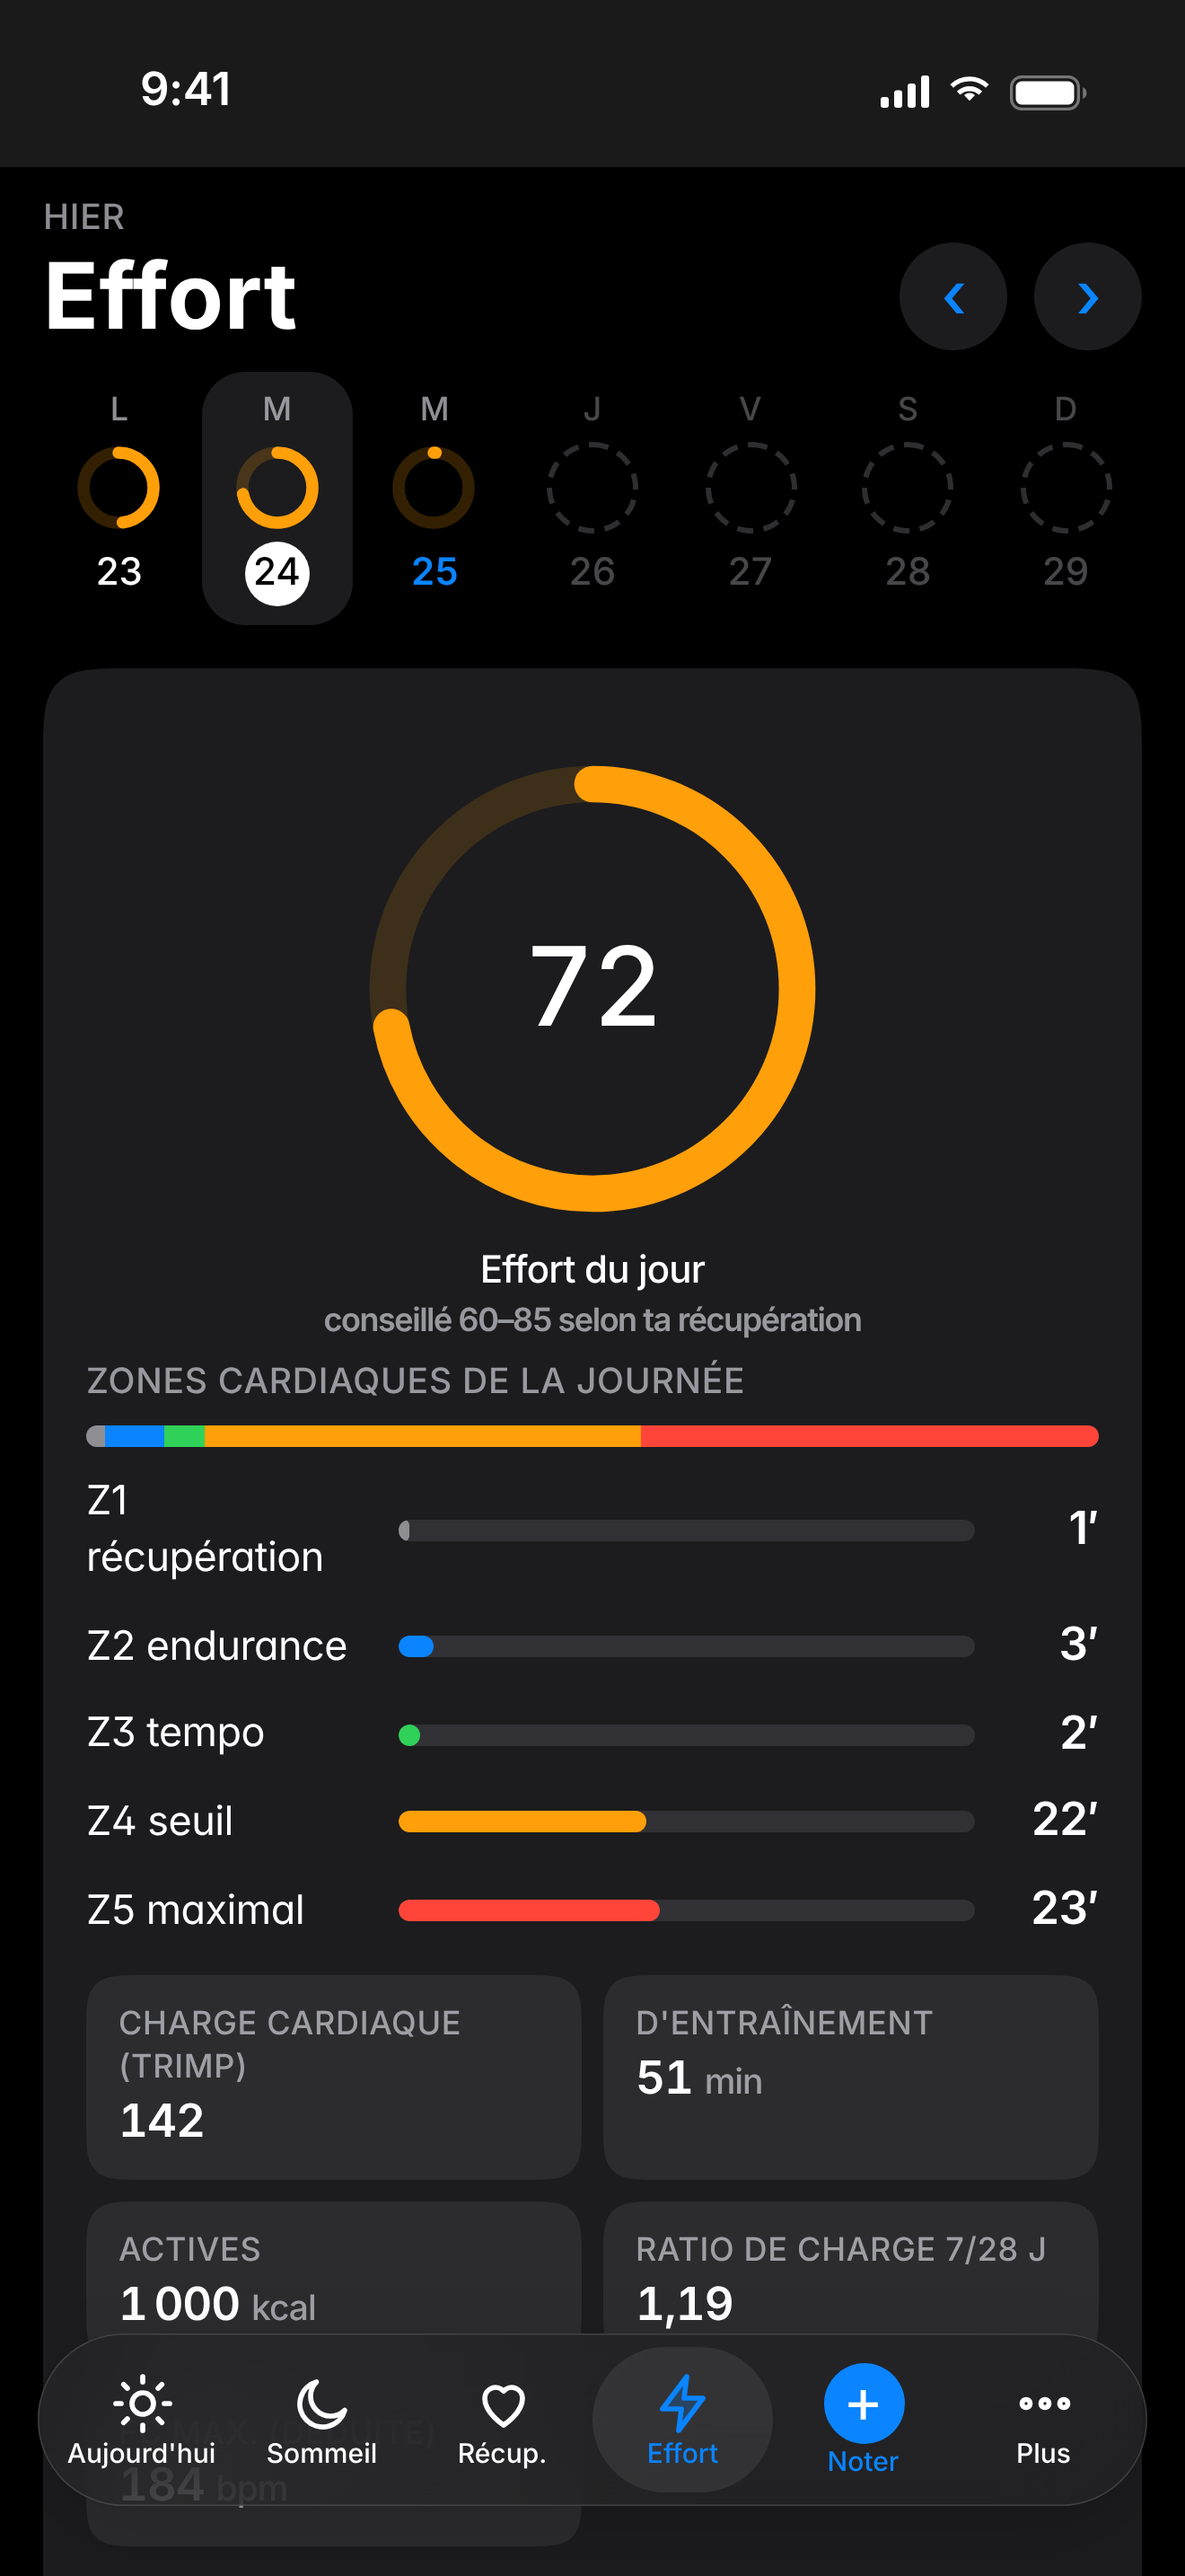
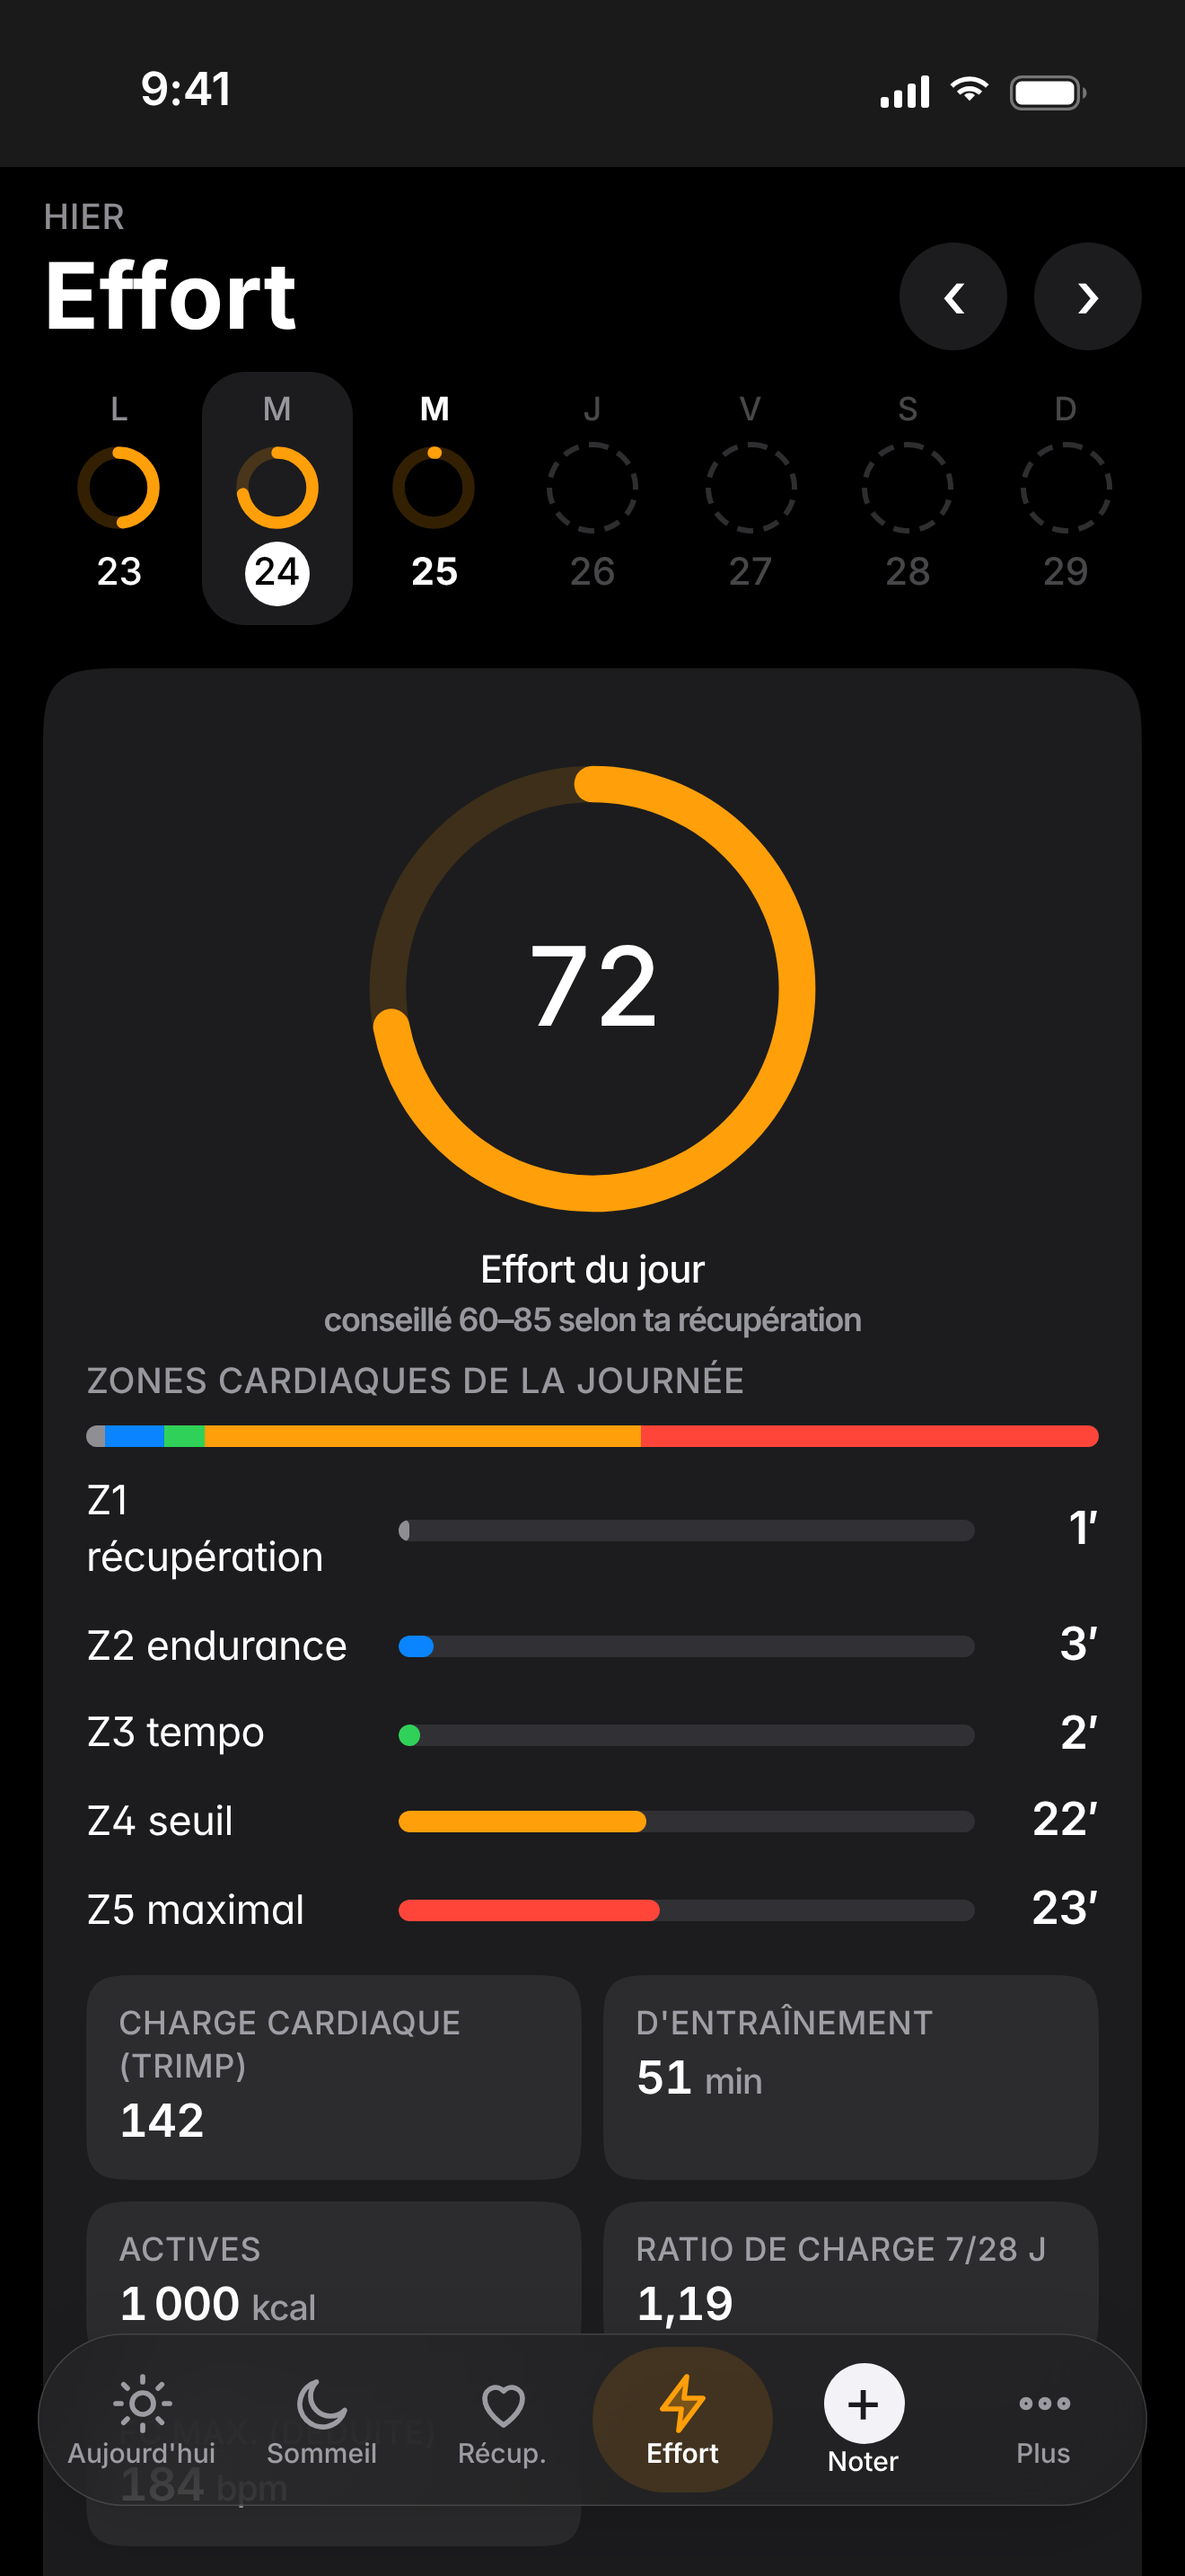
Identité propre : plus de boutons en bleu système
- actions principales en capsules graphite (noires en clair, blanches en sombre)
- actions secondaires en capsules grises, liens en graphite semi-gras
- feuilles : « Annuler » en capsule grise, « Ajouter / Terminer / OK » en capsule graphite
- onglets : icône aux couleurs de chaque section (reprises des anneaux du logo)
- feuille ouverte : minuteur de repos et notifications en bas, pour ne plus couvrir ses boutons
- consigne de design ajoutée à CLAUDE.md ; captures App Store régénérées

Claude-Session: https://claude.ai/code/session_015H5AcnZF4Qe2vCaE56TQbC

diff --git a/src/styles.css b/src/styles.css
@@ -22,7 +22,9 @@
  --glass:light-dark(rgba(255,255,255,.72),rgba(36,36,38,.72));
  --glass-edge:light-dark(rgba(255,255,255,.9),rgba(255,255,255,.14));
  --thumb:light-dark(#fff,#636366);
- --tint:light-dark(#007aff,#0a84ff);
+ /* identité du Carnet : actions en graphite (noir en clair, blanc en sombre), pas le bleu système */
+ --tint:light-dark(#1c1c1e,#f2f2f7);
+ --on-tint:light-dark(#fff,#1c1c1e);
  /* couleurs système d'Apple, une par thème de l'appli */
  --eff:light-dark(#ff9500,#ff9f0a);   /* effort : orange */
  --rec:light-dark(#34c759,#30d158);   /* récupération : vert */
@@ -87,8 +89,8 @@ h3{font:600 17px/1.3 var(--font);margin:18px 0 8px;letter-spacing:-.02em}
 .tabs{display:flex;gap:4px;overflow-x:auto;scrollbar-width:none;padding:10px 0}
 .tabs a{flex:none;display:flex;align-items:center;gap:7px;color:var(--ink);text-decoration:none;padding:8px 14px;min-height:40px;font-weight:500;font-size:15px;border-radius:99px}
 .tabs a svg{width:20px;height:20px;fill:none;stroke:var(--tint);stroke-width:2;stroke-linecap:round;stroke-linejoin:round}
-.tabs a[aria-current=page]{background:var(--tint);color:#fff}.tabs a[aria-current=page] svg{stroke:#fff}
-.tplus{flex:none;display:flex;align-items:center;gap:6px;border:0;border-radius:99px;background:var(--tint);color:#fff;font:600 15px var(--font);padding:8px 16px;min-height:40px;cursor:pointer;margin-left:auto}
+.tabs a[aria-current=page]{background:var(--tint);color:var(--on-tint)}.tabs a[aria-current=page] svg{stroke:#fff}
+.tplus{flex:none;display:flex;align-items:center;gap:6px;border:0;border-radius:99px;background:var(--tint);color:var(--on-tint);font:600 15px var(--font);padding:8px 16px;min-height:40px;cursor:pointer;margin-left:auto}
 .tplus .pi{font-size:21px;line-height:1;font-weight:400}
 .lb .ls{display:none}.dskonly{display:none}.tabs .tplus{order:99}
 
@@ -125,7 +127,7 @@ textarea{resize:vertical}#exp,#imp{font-size:13px;font-family:ui-monospace,'SF M
 /* ---------- boutons (capsules d'iOS 26) ---------- */
 .btn{font:600 16px var(--font);letter-spacing:-.02em;min-height:44px;padding:10px 20px;border-radius:99px;border:0;background:color-mix(in srgb,var(--tint) 13%,transparent);color:var(--tint);cursor:pointer;transition:transform .12s,opacity .12s}
 .btn:active{transform:scale(.97);opacity:.8}
-.btn.pri{background:var(--tint);color:#fff}
+.btn.pri{background:var(--tint);color:var(--on-tint)}
 .btn.ghost{background:none;color:var(--tint)}
 .btn.small{min-height:34px;padding:6px 14px;font-size:15px}
 .btn.icon{width:44px;padding:0;font-size:22px;line-height:1}
@@ -136,14 +138,14 @@ textarea{resize:vertical}#exp,#imp{font-size:13px;font-family:ui-monospace,'SF M
 .x{flex:none;width:32px;height:32px;border:0;border-radius:50%;background:var(--field);color:var(--mute);font-size:19px;line-height:1;cursor:pointer;display:grid;place-items:center;align-self:center;justify-self:end}
 @media(hover:hover){.x:hover{background:color-mix(in srgb,var(--bad) 15%,transparent);color:var(--bad)}.tabs a:not([aria-current=page]):hover{background:var(--field)}}
 label.filebtn{display:inline-flex;align-items:center;font-size:16px;cursor:pointer;position:relative;margin:4px 0 10px}
-label.filebtn.pri{color:#fff}label.btn.filebtn:not(.pri){color:var(--tint);margin:0}
+label.filebtn.pri{color:var(--on-tint)}label.btn.filebtn:not(.pri){color:var(--tint);margin:0}
 label.filebtn:focus-within{outline:3px solid color-mix(in srgb,var(--tint) 50%,transparent);outline-offset:2px}
 .lnk{color:var(--tint);font-weight:600;text-decoration:none}
 
 /* ---------- pastilles et contrôle segmenté ---------- */
 .chips{display:flex;flex-wrap:wrap;gap:8px}
 .chip{display:inline-flex;gap:6px;align-items:baseline;min-height:36px;padding:7px 14px;border-radius:99px;border:0;background:var(--field);color:var(--ink);font:500 15px var(--font);letter-spacing:-.02em;cursor:pointer;text-align:left}
-.chip span{color:var(--mute);font-size:13px}.chip.on{background:var(--tint);color:#fff}.chip.on span{color:inherit;opacity:.75}
+.chip span{color:var(--mute);font-size:13px}.chip.on{background:var(--tint);color:var(--on-tint)}.chip.on span{color:inherit;opacity:.75}
 .seg{display:inline-flex;background:var(--field);border-radius:99px;padding:2px;margin-bottom:14px;flex-wrap:wrap;gap:0}
 .seg button{border:0;background:none;font:500 14px var(--font);letter-spacing:-.01em;color:var(--ink);padding:6px 16px;border-radius:99px;min-height:32px;cursor:pointer;transition:background .2s}
 .seg button.on{background:var(--thumb);font-weight:500;box-shadow:0 3px 8px rgba(0,0,0,.12),0 3px 1px rgba(0,0,0,.04)}
@@ -189,7 +191,7 @@ label.filebtn:focus-within{outline:3px solid color-mix(in srgb,var(--tint) 50%,t
 
 /* ---------- barres ---------- */
 .bar{position:relative;height:8px;background:var(--field);border-radius:99px;overflow:hidden;margin:8px 0 6px}
-.bar i{display:block;position:relative;height:100%;background:var(--c,var(--tint));border-radius:99px;transition:width .5s}
+.bar i{display:block;position:relative;height:100%;background:var(--c,var(--trn));border-radius:99px;transition:width .5s}
 .bar .band{position:absolute;top:0;bottom:0;background:color-mix(in srgb,var(--ink) 9%,transparent)}
 .tg{position:absolute;top:-2px;bottom:-2px;width:2px;background:var(--ink);opacity:.45}
 .zb{display:flex;height:8px;border-radius:99px;overflow:hidden;background:var(--field);margin-top:6px}.zb i{display:block;height:100%}
@@ -327,7 +329,7 @@ td.num,th.num{text-align:right}
  #tabs{max-width:none;margin:0;padding:0}
  .tabs{flex-direction:column;align-items:stretch;gap:2px;overflow:visible;padding:0}
  .tabs a{width:100%;justify-content:flex-start;padding:9px 12px;border-radius:12px;font-size:16px;gap:12px;min-height:42px}
- .tabs a[aria-current=page]{background:var(--tint);color:#fff}
+ .tabs a[aria-current=page]{background:var(--tint);color:var(--on-tint)}
  .tabs .tplus{order:-1;width:100%;justify-content:center;margin:0 0 14px;padding:11px 14px;min-height:46px}
  .tabs .dsk{display:flex!important}
  .kbd{margin-top:auto;padding:12px 8px 0;border-top:.5px solid var(--line);font-size:12px;color:var(--mute);line-height:1.8}
@@ -393,7 +395,7 @@ td.num,th.num{text-align:right}
  .tabs a[aria-current=page],.tabs a.sub-on{background:color-mix(in srgb,var(--ink) 8%,transparent);color:var(--tint)}
  .tabs a[aria-current=page] svg,.tabs a.sub-on svg{stroke:currentColor;fill:color-mix(in srgb,currentColor 22%,transparent)}
  .tabs .tplus{color:var(--tint)}
- .tabs .tplus .pi{width:30px;height:30px;border-radius:50%;background:var(--tint);color:#fff;display:grid;place-items:center;font-size:23px;font-weight:400;line-height:1;flex:none}
+ .tabs .tplus .pi{width:30px;height:30px;border-radius:50%;background:var(--tint);color:var(--on-tint);display:grid;place-items:center;font-size:23px;font-weight:400;line-height:1;flex:none}
  .tabs .lb{display:block;max-width:100%;overflow:hidden;text-overflow:ellipsis;white-space:nowrap}
  .lb .lf{display:none}.lb .ls{display:inline}
  .tabs .dsk{display:none!important}
@@ -547,7 +549,7 @@ a{text-decoration:none}
 .favp .chip:first-child{border-top:0}
 .favp .chip b{font-weight:400;flex:1}
 .favp .chip span{font-size:15px}
-.favp .chip::after{content:'+';width:26px;height:26px;border-radius:50%;background:var(--tint);color:#fff;display:grid;place-items:center;font-size:20px;line-height:1;flex:none}
+.favp .chip::after{content:'+';width:26px;height:26px;border-radius:50%;background:var(--tint);color:var(--on-tint);display:grid;place-items:center;font-size:20px;line-height:1;flex:none}
 .favp p{margin:8px 0}
 /* onglet Effort : carte d'entrée */
 .sessnew h2{margin-bottom:4px}
@@ -556,14 +558,14 @@ a{text-decoration:none}
 .sessnew .hr b,.sessnow .hr b{font-weight:500}
 .sessnow{padding-top:6px;padding-bottom:6px}
 .sessnow .hr{grid-template-columns:30px minmax(0,1fr) auto}
-.sessnow em.go{font-size:15px;font-weight:600;color:#fff;background:var(--tint);border-radius:99px;padding:7px 14px;line-height:1.2}
+.sessnow em.go{font-size:15px;font-weight:600;color:var(--on-tint);background:var(--tint);border-radius:99px;padding:7px 14px;line-height:1.2}
 .sessnow .hr i{animation:pulse 2s ease-in-out infinite}
 @keyframes pulse{50%{opacity:.6}}
 /* nutrition : repas en listes groupées */
 .mealt{margin:22px 0 2px}
 .flist.meal li.addf{display:block;padding:0;min-height:0}
 .addf button{width:100%;text-align:left;background:none;border:0;color:var(--tint);font:400 17px var(--font);letter-spacing:-.02em;padding:12px 0;min-height:48px;cursor:pointer;display:flex;align-items:center;gap:10px}
-.addf button::before{content:'+';width:22px;height:22px;border-radius:50%;background:var(--tint);color:#fff;display:grid;place-items:center;font-size:18px;line-height:1}
+.addf button::before{content:'+';width:22px;height:22px;border-radius:50%;background:var(--tint);color:var(--on-tint);display:grid;place-items:center;font-size:18px;line-height:1}
 
 /* ---------- tuiles : icônes façon SF Symbols ---------- */
 #tiles .tile .k i{width:16px;height:16px;border-radius:0;-webkit-mask:var(--ico) center/contain no-repeat;mask:var(--ico) center/contain no-repeat}
@@ -584,7 +586,7 @@ a{text-decoration:none}
 .wd.tod b{color:var(--tint);font-weight:600}
 .wd.on{background:var(--panel)}
 .wd.on b{background:var(--ink);color:var(--bg)}
-.wd.on.tod b{background:var(--tint);color:#fff}
+.wd.on.tod b{background:var(--tint);color:var(--on-tint)}
 .wd:disabled{cursor:default}.wd:disabled b,.wd:disabled span{color:var(--mute2)}
 @media(hover:hover){.wd:not(.on):not(:disabled):hover{background:color-mix(in srgb,var(--panel) 60%,transparent)}}
 @media(min-width:1100px){.wkstrip{max-width:560px}}
@@ -618,3 +620,51 @@ a{text-decoration:none}
 .mrow b{font:600 17px var(--round);font-variant-numeric:tabular-nums}.mrow b small{font:500 14px var(--round);color:var(--mute)}
 .mabout p{margin:0 0 12px;font-size:16px;line-height:1.5}.mabout p:last-child{margin-bottom:0}
 .mabout p b{font-weight:500}
+
+/* ---------- identité du Carnet : boutons et accents personnalisés ---------- */
+/* couleur de chaque section, reprise des anneaux du logo */
+.tabs a{--tc:var(--mute)}
+.tabs a[href="#aujourdhui"]{--tc:light-dark(#f5a300,#ffd60a)}
+.tabs a[href="#sommeil"]{--tc:var(--slp)}
+.tabs a[href="#recuperation"]{--tc:var(--rec)}
+.tabs a[href="#effort"]{--tc:var(--eff)}
+.tabs a[href="#nutrition"]{--tc:var(--nut)}
+.tabs a[href="#tendances"]{--tc:var(--trn)}
+.tabs a[href="#plus"]{--tc:var(--mute)}
+a{color:var(--ink)}
+:is(input,select,textarea,button,summary,a):focus-visible{outline:3px solid color-mix(in srgb,var(--ink) 30%,transparent)}
+/* boutons : secondaire gris doux, principal graphite, discret en gris */
+.btn{background:var(--field);color:var(--ink);font-weight:600}
+.btn.ghost{background:none;color:var(--mute);font-weight:500}
+.btn.wide{background:var(--field);color:var(--ink)}
+label.btn.filebtn:not(.pri){color:var(--ink)}
+.lnk{color:var(--ink);font-weight:600}
+.hvl summary,.adv summary{color:var(--ink);font-weight:500}
+.panel>p.mute.small.more:not(.open)::after,.mkr p.more:not(.open)::after{color:var(--ink);font-weight:600}
+#toast button{background:var(--field);color:var(--ink)}
+.daynav .btn.icon{color:var(--ink)}
+.subbar .btn{background:var(--field);color:var(--ink);padding:5px 14px 5px 10px;min-height:32px;font-size:15px;font-weight:500;margin-bottom:6px}
+.addf button{color:var(--ink);font-weight:500}
+#demobar .btn{color:var(--ink)}
+/* feuilles : « Annuler » en capsule grise, action en capsule graphite */
+.ms-btn{background:var(--field);color:var(--ink);font:500 15px var(--font);padding:7px 16px;min-height:34px;border-radius:99px}
+.ms-btn.ms-done{background:var(--tint);color:var(--on-tint);font-weight:600}
+/* frise : aujourd'hui marqué en gras, jour choisi en graphite */
+.wd.tod b{color:var(--ink);font-weight:700}
+.wd.tod span{color:var(--ink);font-weight:700}
+/* onglets : icône colorée selon la section */
+.tabs a svg{stroke:var(--tc)}
+.tabs a[aria-current=page]{background:var(--panel);color:var(--ink);font-weight:600;box-shadow:0 1px 3px rgba(0,0,0,.08),0 0 0 .5px var(--line)}
+.tabs a[aria-current=page] svg{stroke:var(--tc);fill:color-mix(in srgb,var(--tc) 25%,transparent)}
+@media(max-width:800px){
+ .tabs a,.tabs .tplus{color:var(--mute)}
+ .tabs a svg{stroke:var(--mute)}
+ .tabs a[aria-current=page],.tabs a.sub-on{background:color-mix(in srgb,var(--tc) 14%,transparent);color:var(--ink);box-shadow:none}
+ .tabs a[aria-current=page] svg,.tabs a.sub-on svg{stroke:var(--tc);fill:color-mix(in srgb,var(--tc) 30%,transparent)}
+ .tabs .tplus{color:var(--ink)}
+}
+/* feuille ouverte : minuteur de repos et notifications en bas, pour ne pas couvrir la barre de la feuille */
+@media(max-width:800px){
+ :root.ms-open #timer{top:auto;bottom:calc(var(--sab) + 14px)}
+ :root.ms-open #toast{top:auto;bottom:calc(var(--sab) + 74px)}
+}

diff --git a/confidentialite.html b/confidentialite.html
@@ -7,7 +7,7 @@
 <meta name="description" content="Politique de confidentialité de l'application Carnet de santé.">
 <link rel="icon" href="./icon.svg" type="image/svg+xml">
 <style>
-:root{color-scheme:light dark;--bg:light-dark(#f2f2f7,#000);--panel:light-dark(#fff,#1c1c1e);--ink:light-dark(#000,#fff);--mute:light-dark(rgba(60,60,67,.6),rgba(235,235,245,.6));--line:light-dark(rgba(60,60,67,.18),rgba(84,84,88,.55));--acc:light-dark(#007aff,#0a84ff)}
+:root{color-scheme:light dark;--bg:light-dark(#f2f2f7,#000);--panel:light-dark(#fff,#1c1c1e);--ink:light-dark(#000,#fff);--mute:light-dark(rgba(60,60,67,.6),rgba(235,235,245,.6));--line:light-dark(rgba(60,60,67,.18),rgba(84,84,88,.55));--acc:light-dark(#1c1c1e,#f2f2f7)}
 *{box-sizing:border-box}
 body{margin:0;background:var(--bg);color:var(--ink);font:17px/1.5 -apple-system,BlinkMacSystemFont,'SF Pro Text','Inter Variable','Segoe UI',system-ui,sans-serif;letter-spacing:-.011em;-webkit-font-smoothing:antialiased;padding:calc(env(safe-area-inset-top,0px) + 24px) 16px calc(env(safe-area-inset-bottom,0px) + 40px)}
 main{max-width:720px;margin:0 auto;background:var(--panel);border-radius:26px;padding:28px 24px}
@@ -17,7 +17,7 @@ p,li{color:var(--ink)}
 .mute{color:var(--mute);font-size:14px}
 .sum{background:color-mix(in srgb,var(--acc) 10%,transparent);border-radius:18px;padding:14px 18px;margin:18px 0}
 .sum ul{margin:0;padding-left:20px}
-a{color:var(--acc)}
+a{color:var(--acc);font-weight:600}
 .back{text-decoration:none;font-weight:600}
 mark{background:#ffe58a;color:#111;border-radius:4px;padding:0 4px}
 </style>

diff --git a/CLAUDE.md b/CLAUDE.md
@@ -15,7 +15,9 @@ https://aurel943.github.io/carnet-de-sante/ : rien ne doit rester seulement en l
 ## Projet
 
 - Appli web sans framework (Vite), en français, emballée pour iOS avec Capacitor (`ios/`).
-- Design : langage visuel d'Apple (iOS 26) défini dans `src/styles.css` ; garder ce style.
+- Design : langage visuel d'Apple (iOS 26) défini dans `src/styles.css`, avec une identité propre :
+  pas de boutons ni de liens en bleu système. Actions principales en capsules graphite (`--tint`),
+  secondaires en capsules grises (`--field`), icônes d'onglets aux couleurs de chaque section.
 - Après une modification du code web destinée à l'appli iOS : `npx cap sync ios`.
 - Après une modification visuelle : régénérer les captures App Store (`npm run captures`).
 - Détails : `README.md` et `docs/APP_STORE.md`.
